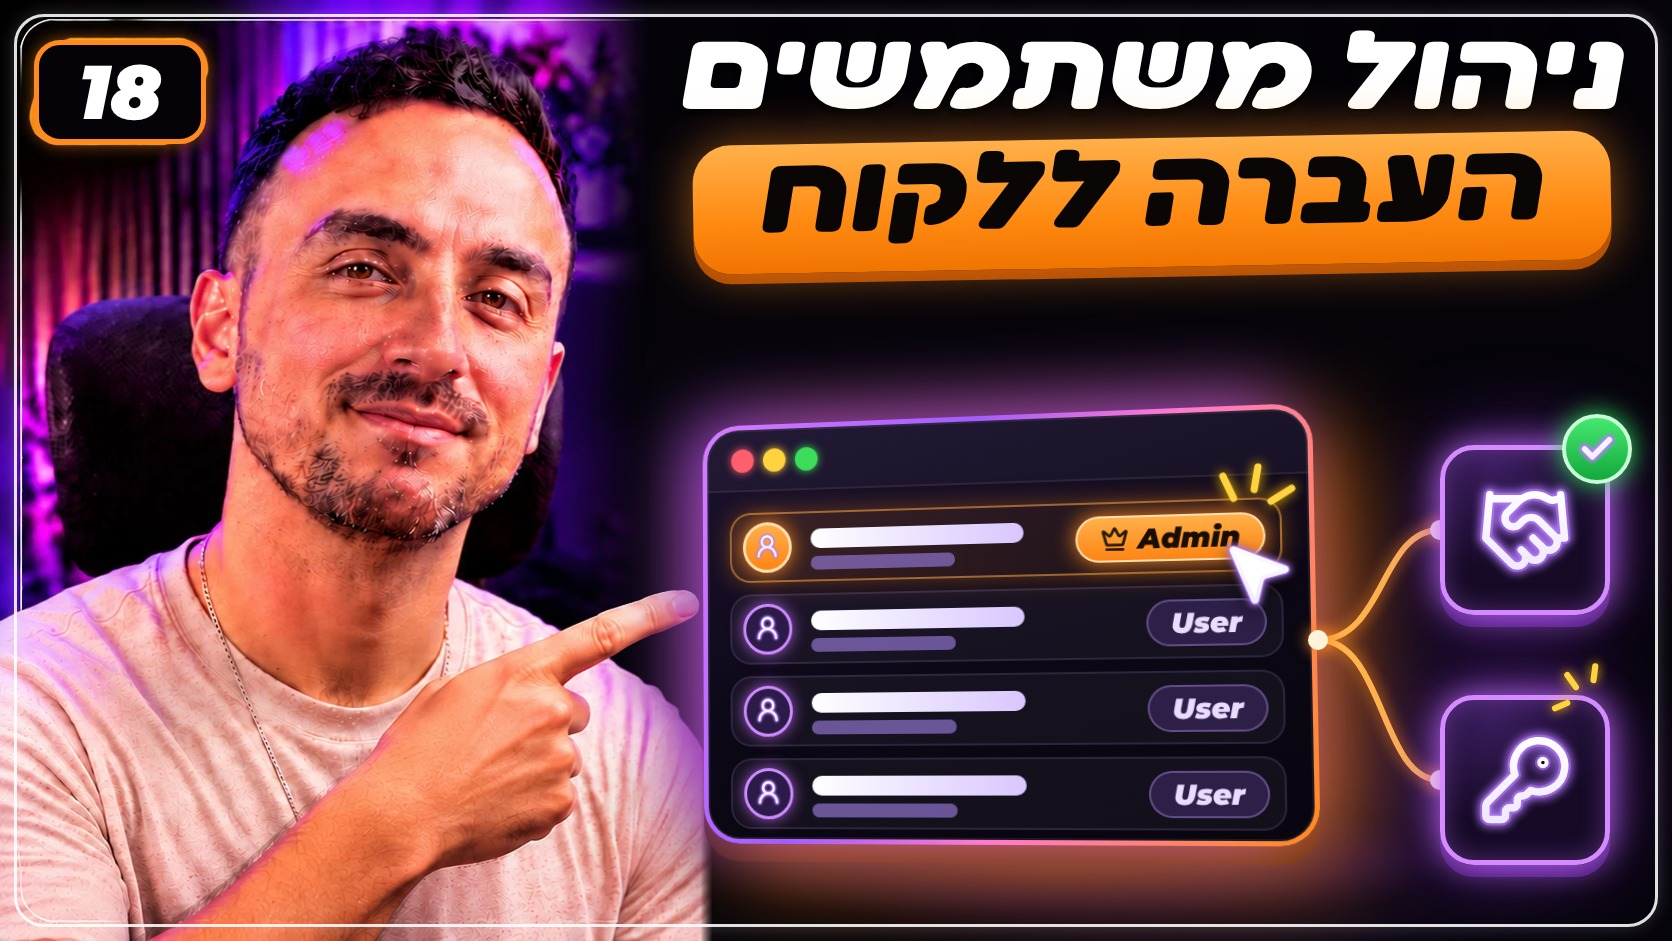
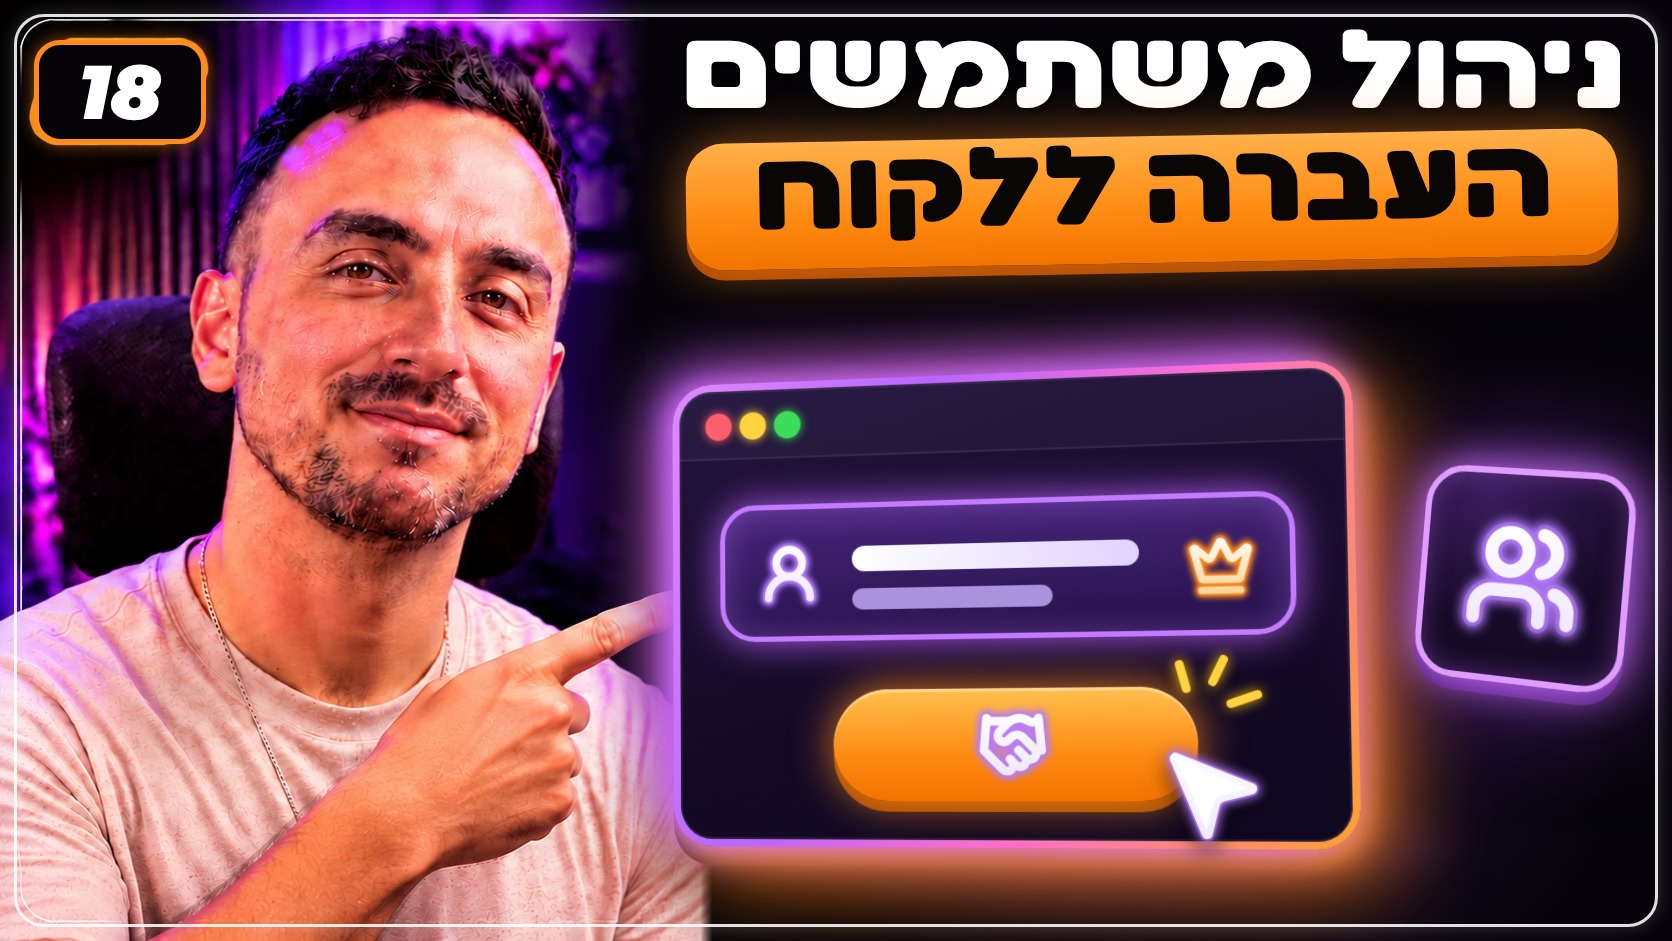
Lesson 18 thumbnail: simpler bold scene like the owner's covers
Claude-Session: https://claude.ai/code/session_01FAZMZ6dHugqwLEvCczvQg3

diff --git a/tools/thumbnails/lesson18.py b/tools/thumbnails/lesson18.py
@@ -6,30 +6,16 @@ from lovable_thumbs import icon, pos
 
 BG = M.HERE / "persons/bg6.jpg"
 
-def row(i, role, hot):
-    y = 22 + i * 84
-    crown = f'<div class="rc">{icon("crown", "d", 2.4)}</div>' if hot else ""
-    return (f'<div class="row{" hot" if hot else ""}" style="{pos(24,y,560,72)}">'
-            f'<div class="av{" o" if hot else ""}"><div class="avi">{icon("user-round", "w", 2.2)}</div></div>'
-            f'<div class="b1"></div><div class="b2"></div>'
-            f'<div class="role{" o" if hot else ""}">{crown}<span>{role}</span></div></div>')
-
-ROWS = "".join(row(i, r, i == 0) for i, r in enumerate(["Admin", "User", "User", "User"]))
-
 SCENE = f"""
 <div class="floor"></div>
-<div class="win3d"><div class="tbar"><i class="r"></i><i class="y"></i><i class="gr"></i></div><div class="body">{ROWS}
+<div class="win3d"><div class="tbar"><i class="r"></i><i class="y"></i><i class="gr"></i></div><div class="body">
+ <div class="fld"><div class="fi">{icon("user-round", "w", 3)}</div><div class="b1"></div><div class="b2"></div>
+  <div class="crown">{icon("crown", "o", 2.8)}</div></div>
+ <div class="go"><div class="gi">{icon("handshake", "w", 3)}</div></div>
  <div class="cursor">{icon("mouse-pointer-2", "w", 1.4)}</div>
- <svg class="spark" viewBox="0 0 80 80"><path d="M22 30 l-10 -22 M42 22 l4 -22 M58 34 l20 -12" /></svg>
+ <svg class="spark" viewBox="0 0 80 80"><path d="M10 26 l-6 -22 M34 20 l10 -20 M50 40 l24 -8" /></svg>
 </div></div>
-<svg class="wires" viewBox="0 0 980 520">
- <path d="M668 240 C 735 240, 730 130, 790 130"/><path d="M668 240 C 735 240, 730 380, 790 380"/>
- <circle cx="668" cy="240" r="10"/><circle cx="790" cy="130" r="10"/><circle cx="790" cy="380" r="10"/>
-</svg>
-<div class="card" style="{pos(790,45,170,170)}"><div class="ci">{icon("handshake", "w", 1.9)}</div></div>
-<div class="card" style="{pos(790,295,170,170)}"><div class="ci">{icon("key-round", "w", 1.9)}</div></div>
-<div class="gchk" style="{pos(912,14,70,70)}">{icon("check", "w", 3.6)}</div>
-<svg class="spark s2" style="{pos(905,268,70,70)}" viewBox="0 0 80 80"><path d="M14 40 l-14 6 M24 22 l-10 -14 M44 14 l2 -16" /></svg>
+<div class="card" style="{pos(740,110,200,200)}"><div class="ci">{icon("users", "w", 2.8)}</div></div>
 """
 
 EXTRA = """
@@ -38,45 +24,43 @@ EXTRA = """
  -webkit-mask:linear-gradient(90deg,#000 0,#000 540px,transparent 650px)}
 .shade{position:absolute;inset:0;background:radial-gradient(600px 400px at 1200px 760px,rgba(150,60,255,.18),transparent 70%);z-index:0}
 .stripes{display:none}
-.top{font-size:178px;line-height:1.02;transform:skewX(-10deg);text-shadow:0 8px 0 rgba(0,0,0,.55),0 0 40px rgba(0,0,0,.6);letter-spacing:-2px}
+.top{font-size:190px;line-height:1.0;text-shadow:0 8px 0 rgba(0,0,0,.55),0 0 40px rgba(0,0,0,.6);letter-spacing:-2px}
 .title{top:22px;gap:2px;right:40px;width:960px}
 .pill{padding:0 66px 14px;border-radius:38px;transform:rotate(-1deg);
  background:linear-gradient(180deg,#ffb04a,#ff8a12 60%,#f07400);box-shadow:0 0 50px rgba(255,140,30,.55),0 10px 0 #a94600}
-.pill span{font-family:K,sans-serif;font-style:normal;font-size:168px;line-height:1.04;letter-spacing:-2px;transform:skewX(-10deg)}
+.pill span{font-family:K,sans-serif;font-style:normal;font-size:176px;line-height:1.0;letter-spacing:-2px}
 .badge{font-size:76px}
-.scene{left:650px;top:400px;width:980px;height:520px}
+.scene{left:690px;top:350px;width:940px;height:520px;transform:scale(1.08);transform-origin:right top}
 .floor{left:40px;top:400px;width:760px;height:120px;background:radial-gradient(closest-side,rgba(255,120,30,.45),rgba(160,60,255,.25) 55%,transparent);filter:blur(10px)}
-.win3d{left:40px;top:14px;width:620px;height:430px;border-radius:38px;border:5px solid transparent;
+.win3d{left:40px;top:20px;width:640px;height:440px;border-radius:38px;border:7px solid transparent;
  transform:perspective(1500px) rotateY(-9deg) rotateX(2deg) rotate(-1deg);transform-origin:center;
- background:linear-gradient(165deg,#1c1230,#0b0714 60%,#090610) padding-box,
-  linear-gradient(115deg,#d77dff 0%,#a45cff 35%,#ff7ad0 60%,#ff8a1f 100%) border-box;
- box-shadow:-24px -10px 70px rgba(180,80,255,.75),26px 24px 90px rgba(255,130,20,.8),0 0 0 2px rgba(255,255,255,.08) inset,
+ background:linear-gradient(165deg,#24143e,#140a26 60%,#100820) padding-box,
+  linear-gradient(115deg,#e08bff 0%,#b866ff 30%,#ff6fd0 62%,#ffa030 100%) border-box;
+ box-shadow:-20px -14px 60px rgba(190,90,255,.95),-6px 0 24px rgba(220,140,255,.8),24px 26px 80px rgba(255,130,20,.95),8px 10px 26px rgba(255,170,60,.9),0 0 0 2px rgba(255,255,255,.08) inset,
   0 18px 0 #2a1208,0 50px 70px rgba(0,0,0,.7)}
-.win3d .tbar{height:64px}
-.win3d .tbar i{top:20px;width:24px;height:24px}
-.win3d .body{position:absolute;left:0;right:0;top:64px;bottom:0;direction:ltr}
-.row{position:absolute;border-radius:22px;background:rgba(255,255,255,.045);border:2px solid rgba(200,160,255,.14)}
-.row.hot{background:linear-gradient(90deg,rgba(255,140,30,.16),rgba(255,140,30,.04));border-color:rgba(255,170,70,.55);box-shadow:0 0 26px rgba(255,140,30,.35)}
-.row .av{position:absolute;left:12px;top:8px;width:52px;height:52px;border-radius:50%;background:#2c1a48;border:3px solid #cf8bff;box-shadow:0 0 16px rgba(196,107,255,.8)}
-.row .av.o{background:linear-gradient(180deg,#ffae4e,#ff8414);border-color:#ffe0b0;box-shadow:0 0 20px #ff8a1f}
-.row .avi{position:absolute;left:18%;top:16%;width:64%;height:64%}
-.row .b1{position:absolute;left:84px;top:16px;width:220px;height:20px;border-radius:10px;background:linear-gradient(90deg,#fff,#d9c6ff)}
-.row .b2{position:absolute;left:84px;top:44px;width:150px;height:14px;border-radius:8px;background:#8f72cc;opacity:.7}
-.row .role{position:absolute;right:14px;top:12px;height:46px;padding:0 22px;border-radius:23px;display:flex;align-items:center;gap:8px;
- background:#2d1f47;border:2px solid rgba(200,160,255,.35);color:#e9dcff;font:900 italic 28px M,sans-serif}
-.row .role.o{background:linear-gradient(180deg,#ffb04a,#ff8414);border-color:#ffe0b0;color:#1a0d02;box-shadow:0 0 22px #ff8a1f}
-.row .rc{width:30px;height:30px}
-.cursor{position:absolute;left:520px;top:56px;width:80px;height:80px;z-index:5;filter:drop-shadow(0 6px 8px rgba(0,0,0,.6))}
+.win3d .tbar{height:66px}
+.win3d .tbar i{top:21px;width:26px;height:26px}
+.win3d .body{position:absolute;left:0;right:0;top:66px;bottom:0;direction:ltr}
+.fld{position:absolute;left:40px;top:44px;width:540px;height:130px;border-radius:34px;border:5px solid #c47bff;
+ background:linear-gradient(180deg,rgba(150,80,255,.35),rgba(90,40,180,.25));box-shadow:0 0 34px rgba(190,100,255,.9),inset 0 0 30px rgba(190,120,255,.35)}
+.fld .fi{position:absolute;left:30px;top:28px;width:66px;height:66px}
+.fld .b1{position:absolute;left:124px;top:36px;width:270px;height:24px;border-radius:12px;background:linear-gradient(90deg,#fff,#e2d2ff)}
+.fld .b2{position:absolute;left:124px;top:76px;width:190px;height:20px;border-radius:10px;background:#c9b2ff;opacity:.8}
+.fld .crown{position:absolute;right:30px;top:30px;width:64px;height:64px}
+.go{position:absolute;left:150px;top:220px;width:340px;height:104px;border-radius:52px;
+ background:linear-gradient(180deg,#ffc04f,#ff8a12 60%,#f27300);box-shadow:0 0 40px rgba(255,140,30,.85),0 10px 0 #a34800,inset 0 3px 0 rgba(255,255,255,.35)}
+.go .gi{position:absolute;left:50%;top:50%;width:70px;height:70px;transform:translate(-50%,-50%)}
+.cursor{position:absolute;left:446px;top:262px;width:110px;height:110px;z-index:5;filter:drop-shadow(0 8px 10px rgba(0,0,0,.6))}
 .cursor svg path{fill:#fff}
-svg.spark{position:absolute;left:516px;top:-8px;width:80px;height:80px;overflow:visible;z-index:5}
-svg.spark path{stroke:#ffd23f;stroke-width:7;stroke-linecap:round;fill:none;filter:drop-shadow(0 0 6px #ffc400)}
+svg.spark{position:absolute;left:470px;top:196px;width:80px;height:80px;overflow:visible;z-index:5}
+svg.spark path{stroke:#ffd23f;stroke-width:8;stroke-linecap:round;fill:none;filter:drop-shadow(0 0 6px #ffc400)}
 .wires{position:absolute;left:0;top:0;width:980px;height:520px;overflow:visible}
 .wires path{stroke:#ffb34d;stroke-width:6;fill:none;filter:drop-shadow(0 0 8px #ff8a1f)}
 .wires circle{fill:#fff3dc;filter:drop-shadow(0 0 8px #ff8a1f)}
-.card{position:absolute;border-radius:34px;border:5px solid #d58bff;
+.card{position:absolute;border-radius:38px;border:6px solid #e09cff;transform:perspective(800px) rotateY(-14deg) rotate(5deg);
  background:radial-gradient(120% 100% at 30% 10%,#3a1d5e,#160a26 65%);
- box-shadow:0 0 34px rgba(196,107,255,.95),0 0 90px rgba(160,60,255,.45),inset 0 0 24px rgba(196,107,255,.35),0 12px 0 #3b145d}
-.card .ci{position:absolute;left:18%;top:18%;width:64%;height:64%}
+ box-shadow:0 0 40px rgba(210,120,255,1),0 0 110px rgba(170,70,255,.6),inset 0 0 24px rgba(196,107,255,.35),0 12px 0 #3b145d}
+.card .ci{position:absolute;left:19%;top:19%;width:62%;height:62%}
 .gchk{position:absolute;border-radius:50%;background:linear-gradient(180deg,#45e870,#14a83d);border:4px solid #c9ffd6;box-shadow:0 0 26px #2fe05a;padding:11px;z-index:9}
 .s2{z-index:9}
 """
